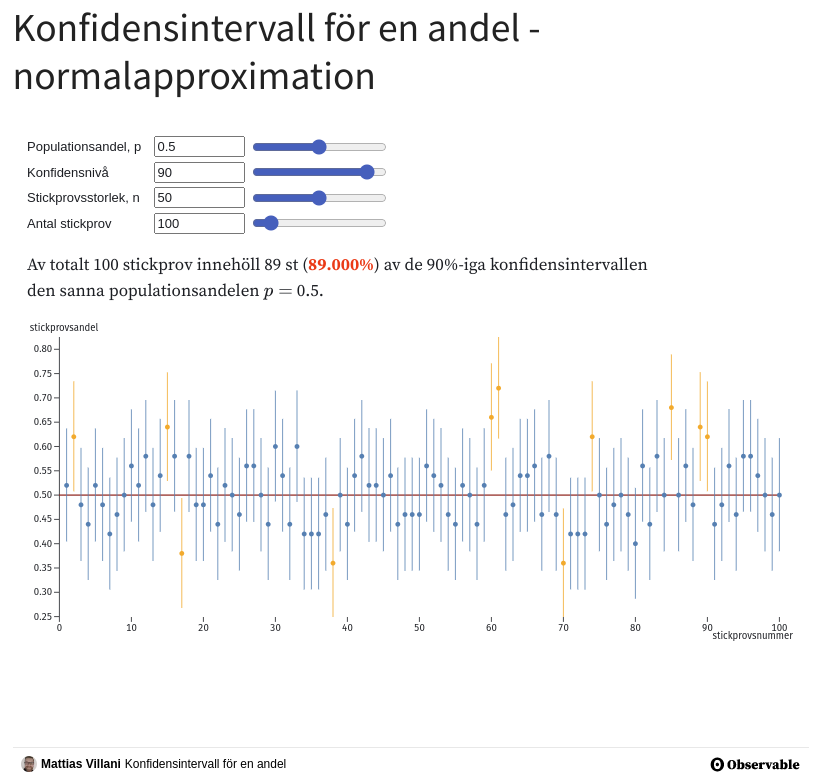
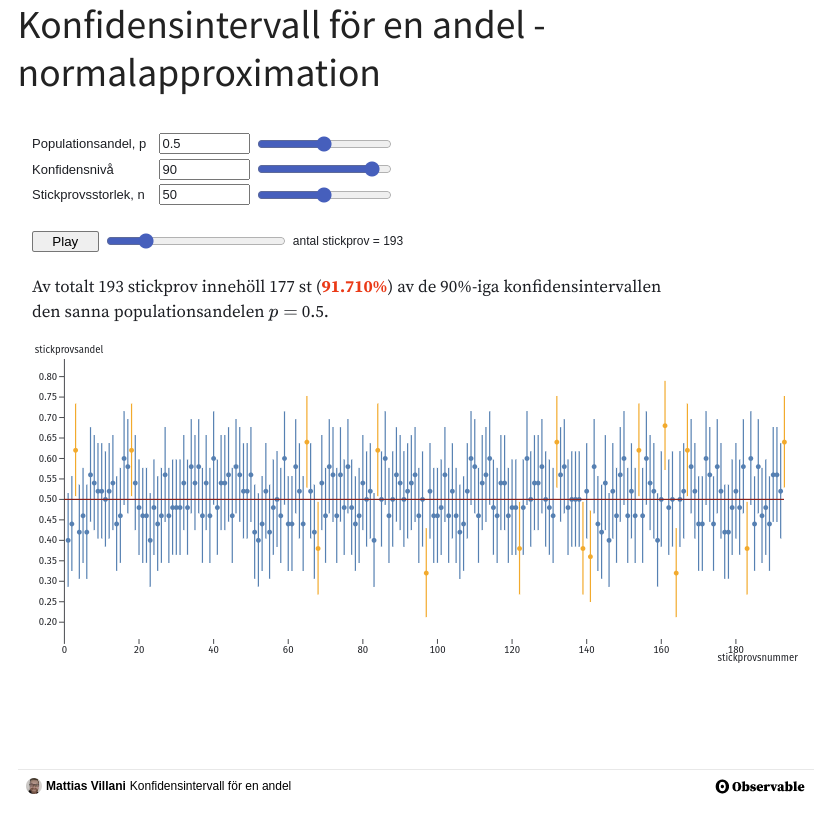
update konfidens widget

diff --git a/docs/observable/konfidensintervall_andel.html b/docs/observable/konfidensintervall_andel.html
@@ -137,7 +137,7 @@ ul.task-list li input[type="checkbox"] {
 
 </header>
 
-<iframe width="100%" height="663" frameborder="0" src="https://observablehq.com/embed/fa3ac3f819ff567e@191?cells=viewof+settings%2Ctextinfo%2Cplt">
+<iframe width="100%" height="688" frameborder="0" src="https://observablehq.com/embed/fa3ac3f819ff567e@237?cells=viewof+settings%2Cviewof+nrep%2Ctextinfo%2Cplt">
 </iframe>
 
 
